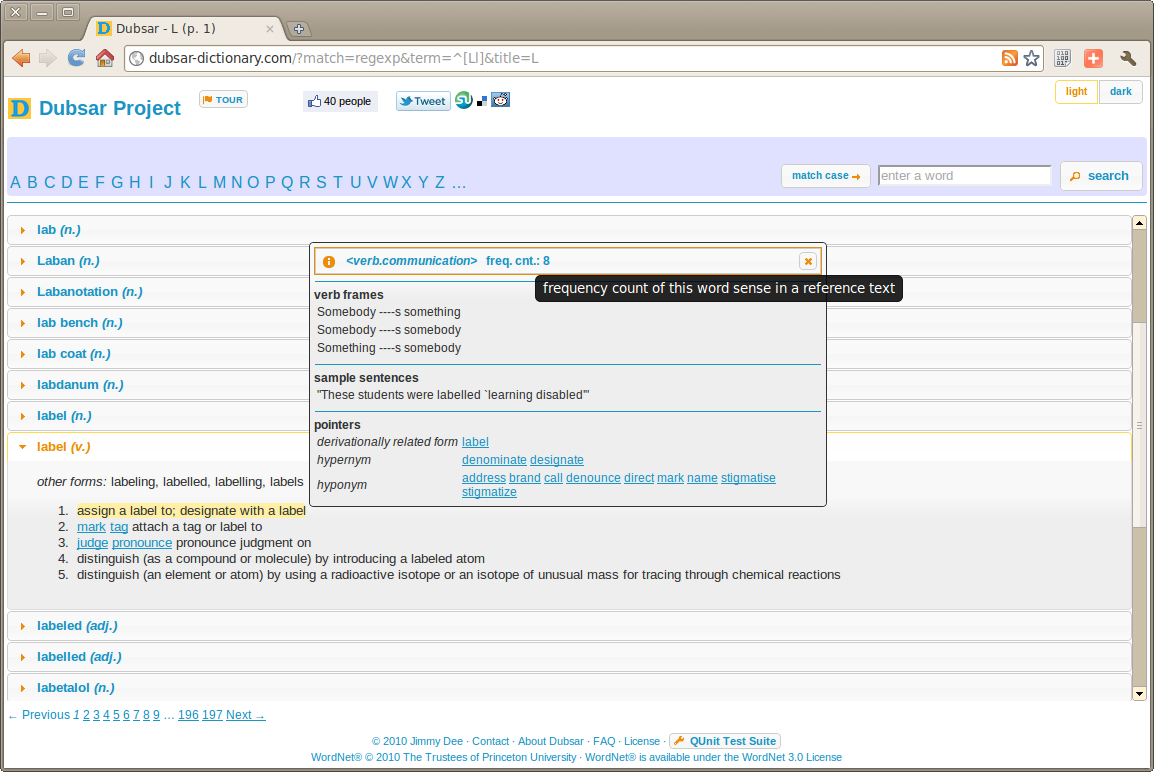
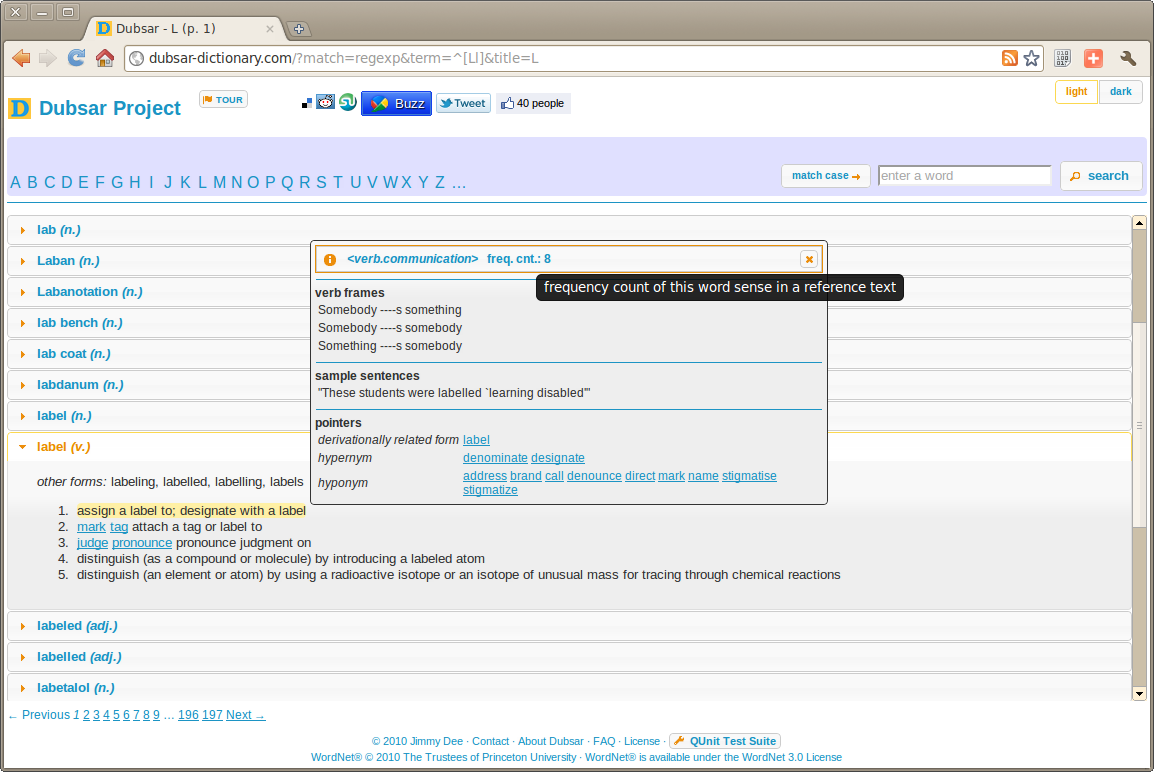
Google Buzz optimization, etc

diff --git a/app/helpers/application_helper.rb b/app/helpers/application_helper.rb
@@ -85,7 +85,6 @@ EOF
   def buzz_link(url='http://dubsar-dictionary.com')
     s = <<EOF
 <a title="Post to Google Buzz" class="google-buzz-button" href="http://www.google.com/buzz/post" data-admin-site="true" data-button-style="normal-button" data-url="#{url}" data-imageurl="#{asset_host}/images/dubsar.png"></a>
-<script type="text/javascript" src="http://www.google.com/buzz/api/button.js"></script>
 EOF
   end
 
